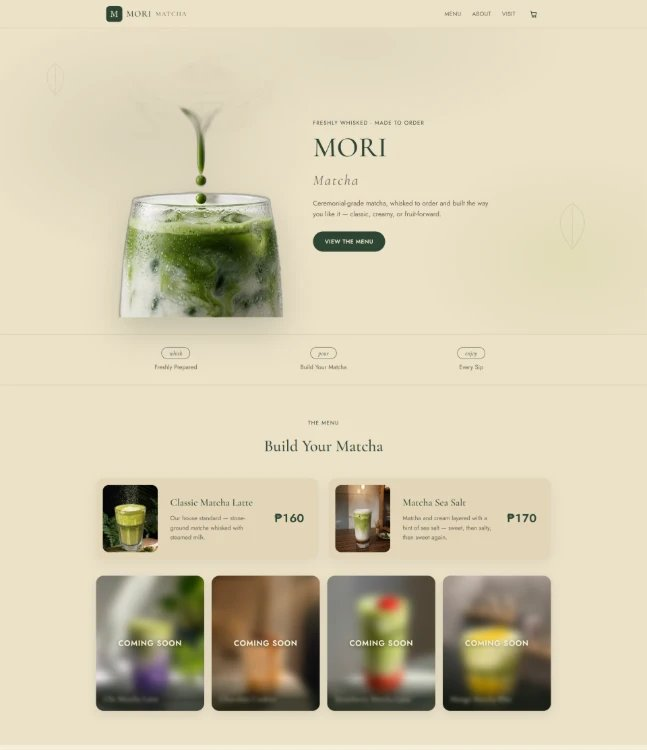
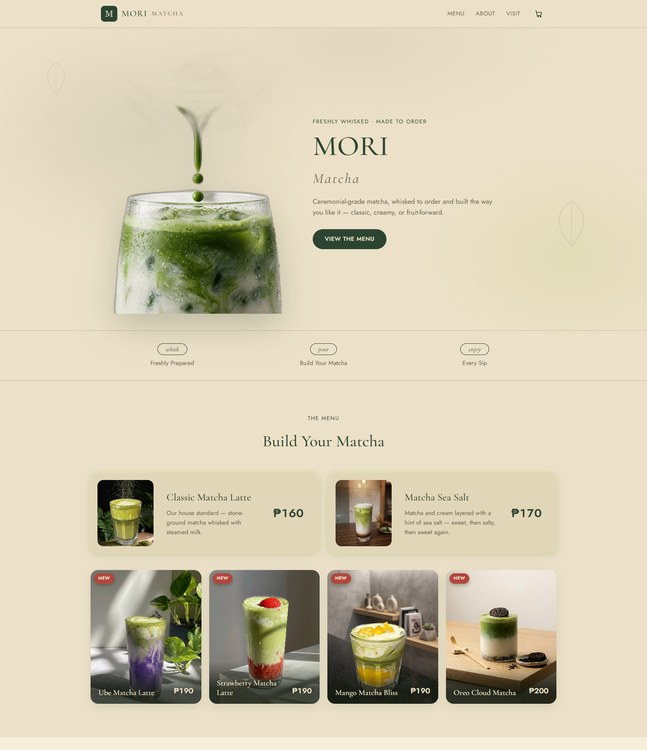
Update Mori Matcha card: fresh homepage screenshot and New badge note

diff --git a/index.html b/index.html
@@ -162,7 +162,7 @@
 
         <div class="project-gallery">
           <figure>
-            <img src="assets/screenshots/mori-matcha/home.jpg" alt="Mori Matcha homepage hero and menu section with featured drinks and coming-soon items" loading="lazy">
+            <img src="assets/screenshots/mori-matcha/home.jpg" alt="Mori Matcha homepage hero and menu section with featured drinks and New-tagged items including Oreo Cloud Matcha" loading="lazy">
             <figcaption>Homepage — featured drinks and menu</figcaption>
           </figure>
           <figure>
@@ -179,7 +179,7 @@
           <li>Cart-based ordering flow with a built-in step-by-step guide, writing to a Postgres order log via Vercel serverless functions with rate limiting on submission</li>
           <li>Admin dashboard for managing order status, with CSV export and a recoverable trash bin for deleted orders</li>
           <li>Live Google Places reviews sync merged with a curated fallback list, capped and text-clamped to keep the section a tidy row of highlights</li>
-          <li>Tri-state per-drink availability (available / unavailable / coming soon) managed from the admin panel, plus Vercel Analytics</li>
+          <li>Tri-state per-drink availability (available / unavailable / coming soon) managed from the admin panel, "New" badges for recently added drinks, plus Vercel Analytics</li>
           <li>Full SEO/PWA setup — meta tags, JSON-LD, installable manifest</li>
         </ul>
 
